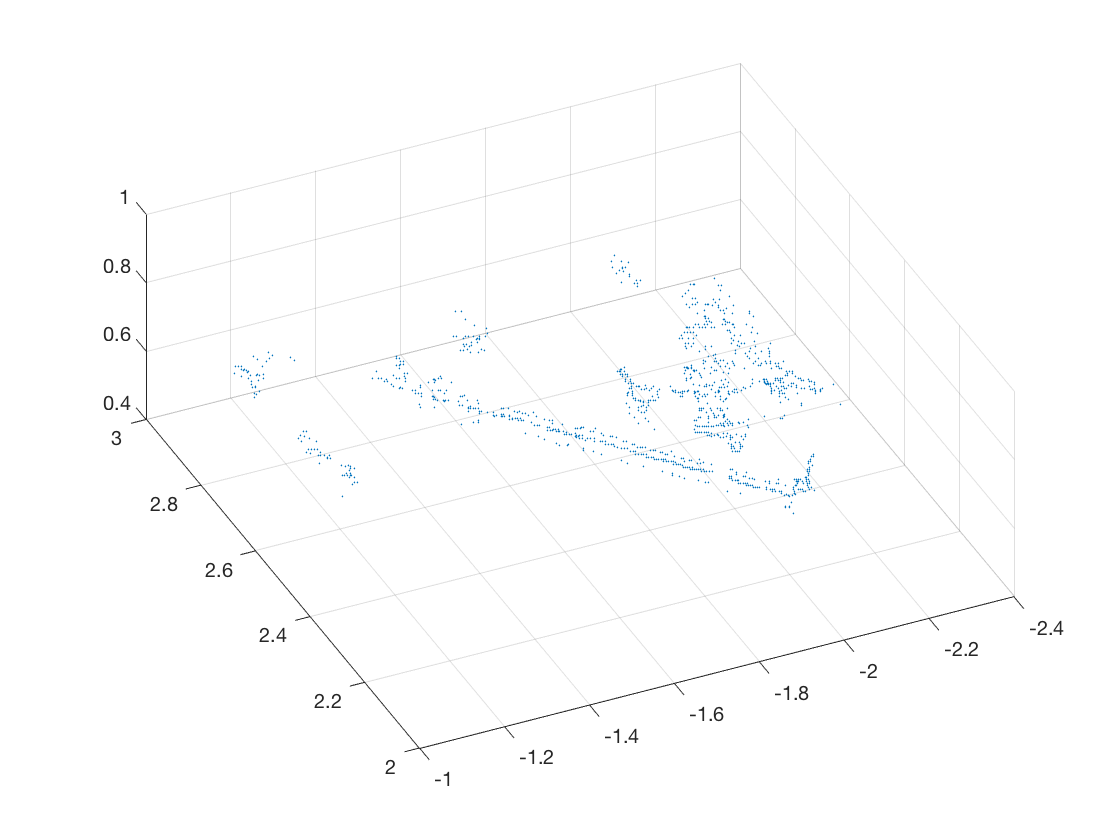
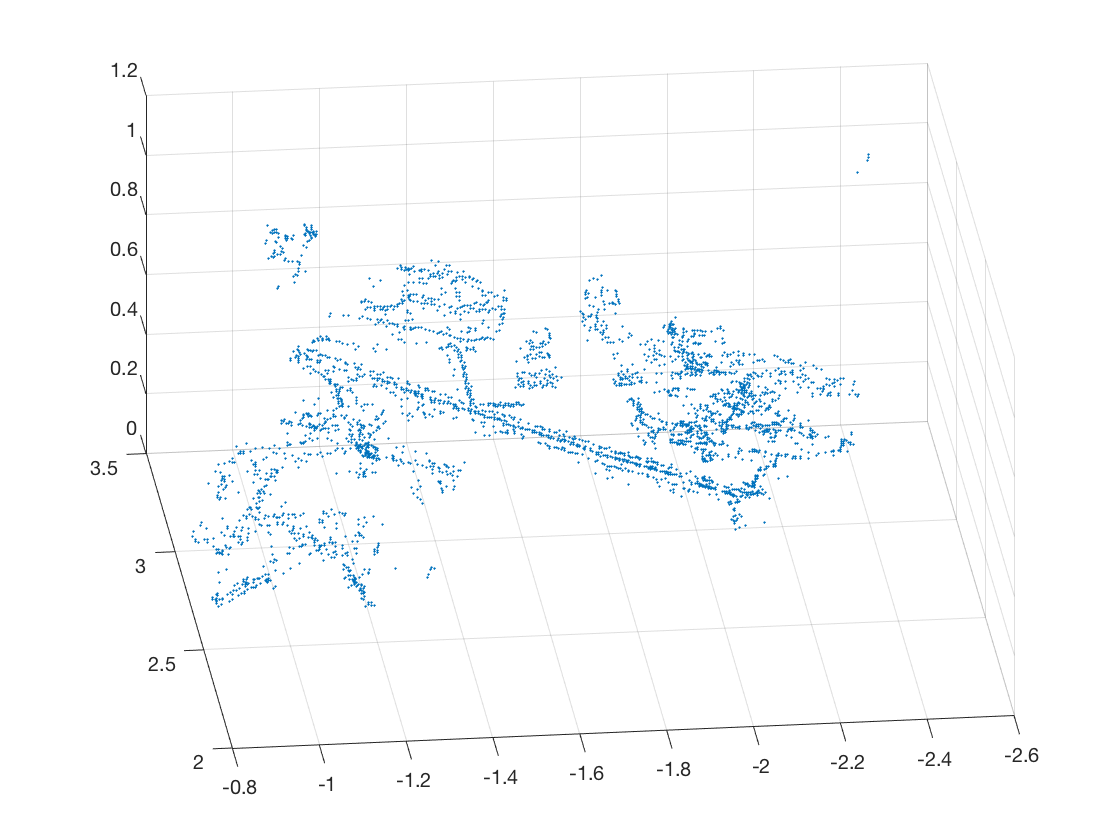
More results

diff --git a/EVO.m b/EVO.m
@@ -64,10 +64,10 @@ while end_time < event_mat(end-1,1)
             imagesc(depth_map);
             [map_points] = GetNewMapPoints(depth_map, kf_pose_estimate, KF_scaling, KF_depths);%  - origin is implied to be (0,0,0)?
             if ~isempty(map_points)
-                map_points = RadiusFilterMap(map_points, 0.07, min(0.06*size(map_points,1),20));
+                map_points = RadiusFilterMap(map_points, 0.1, min(0.06*size(map_points,1),40));
                 map = [map; map_points];
                 figure(3);
-                scatter3(map(:,1), map(:,2), map(:,3), 1, 'filled');
+                scatter3(map(:,1), map(:,2), map(:,3), 2, 'filled');
                 pause
             end
         end
